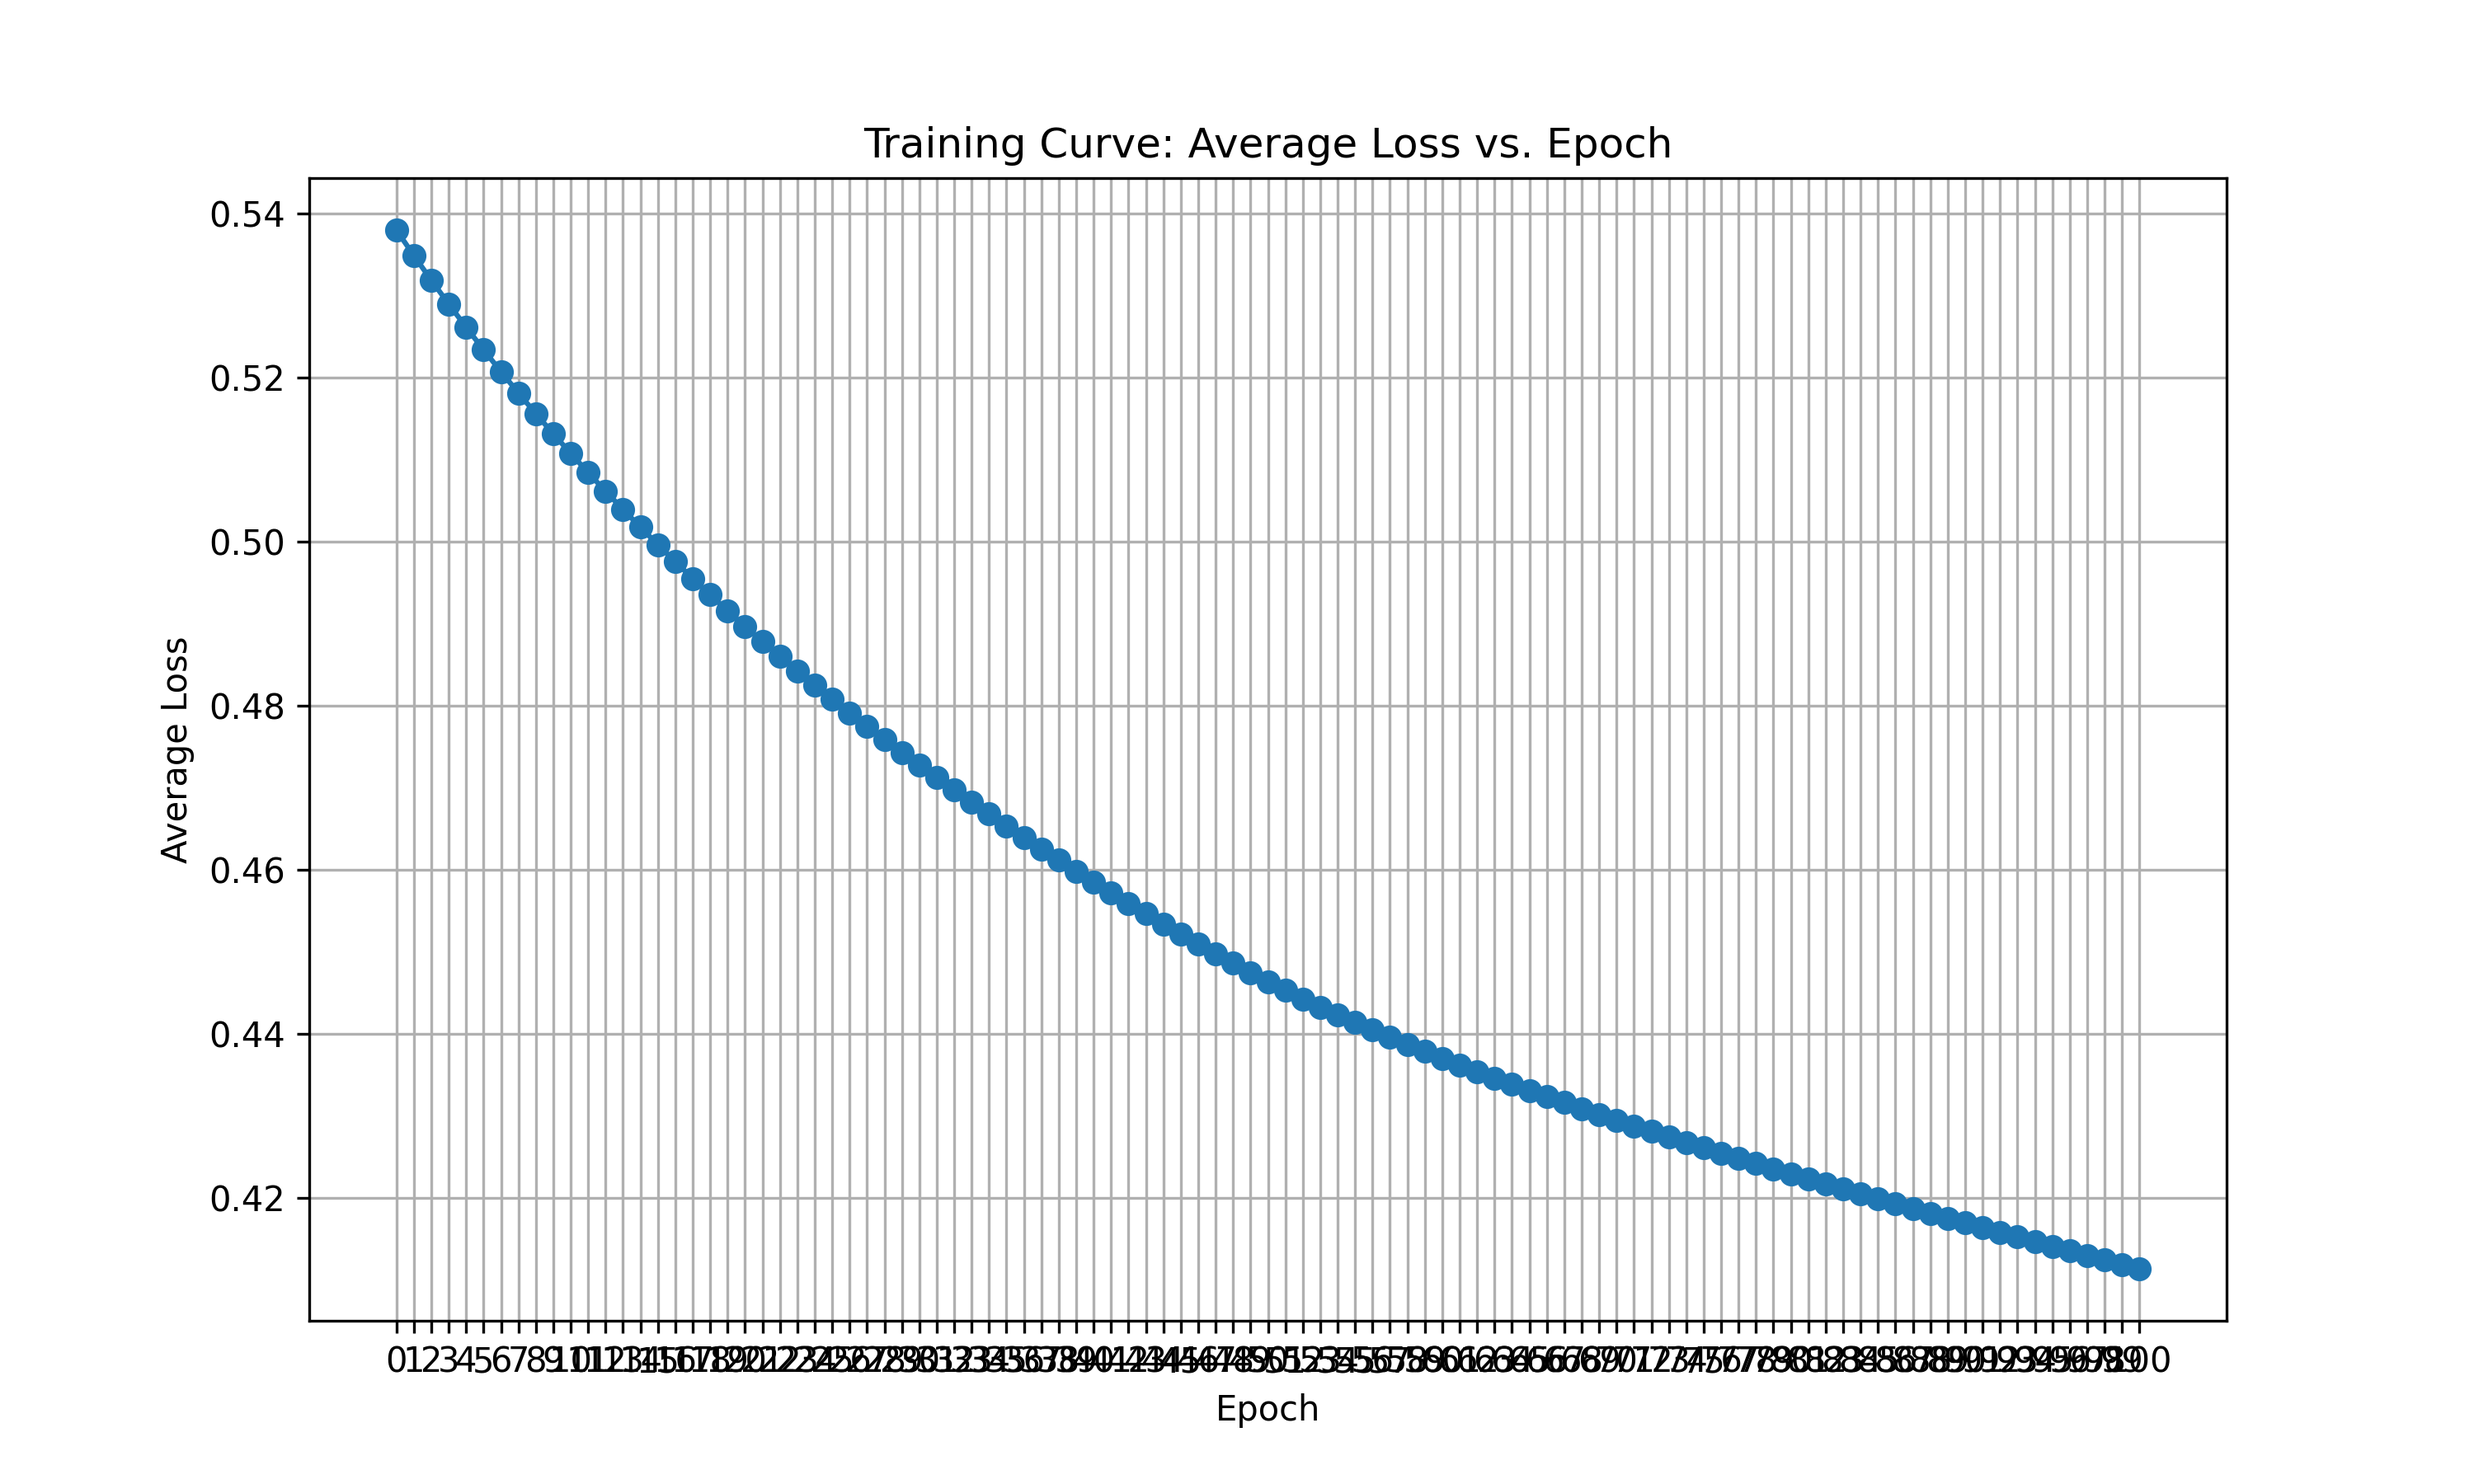
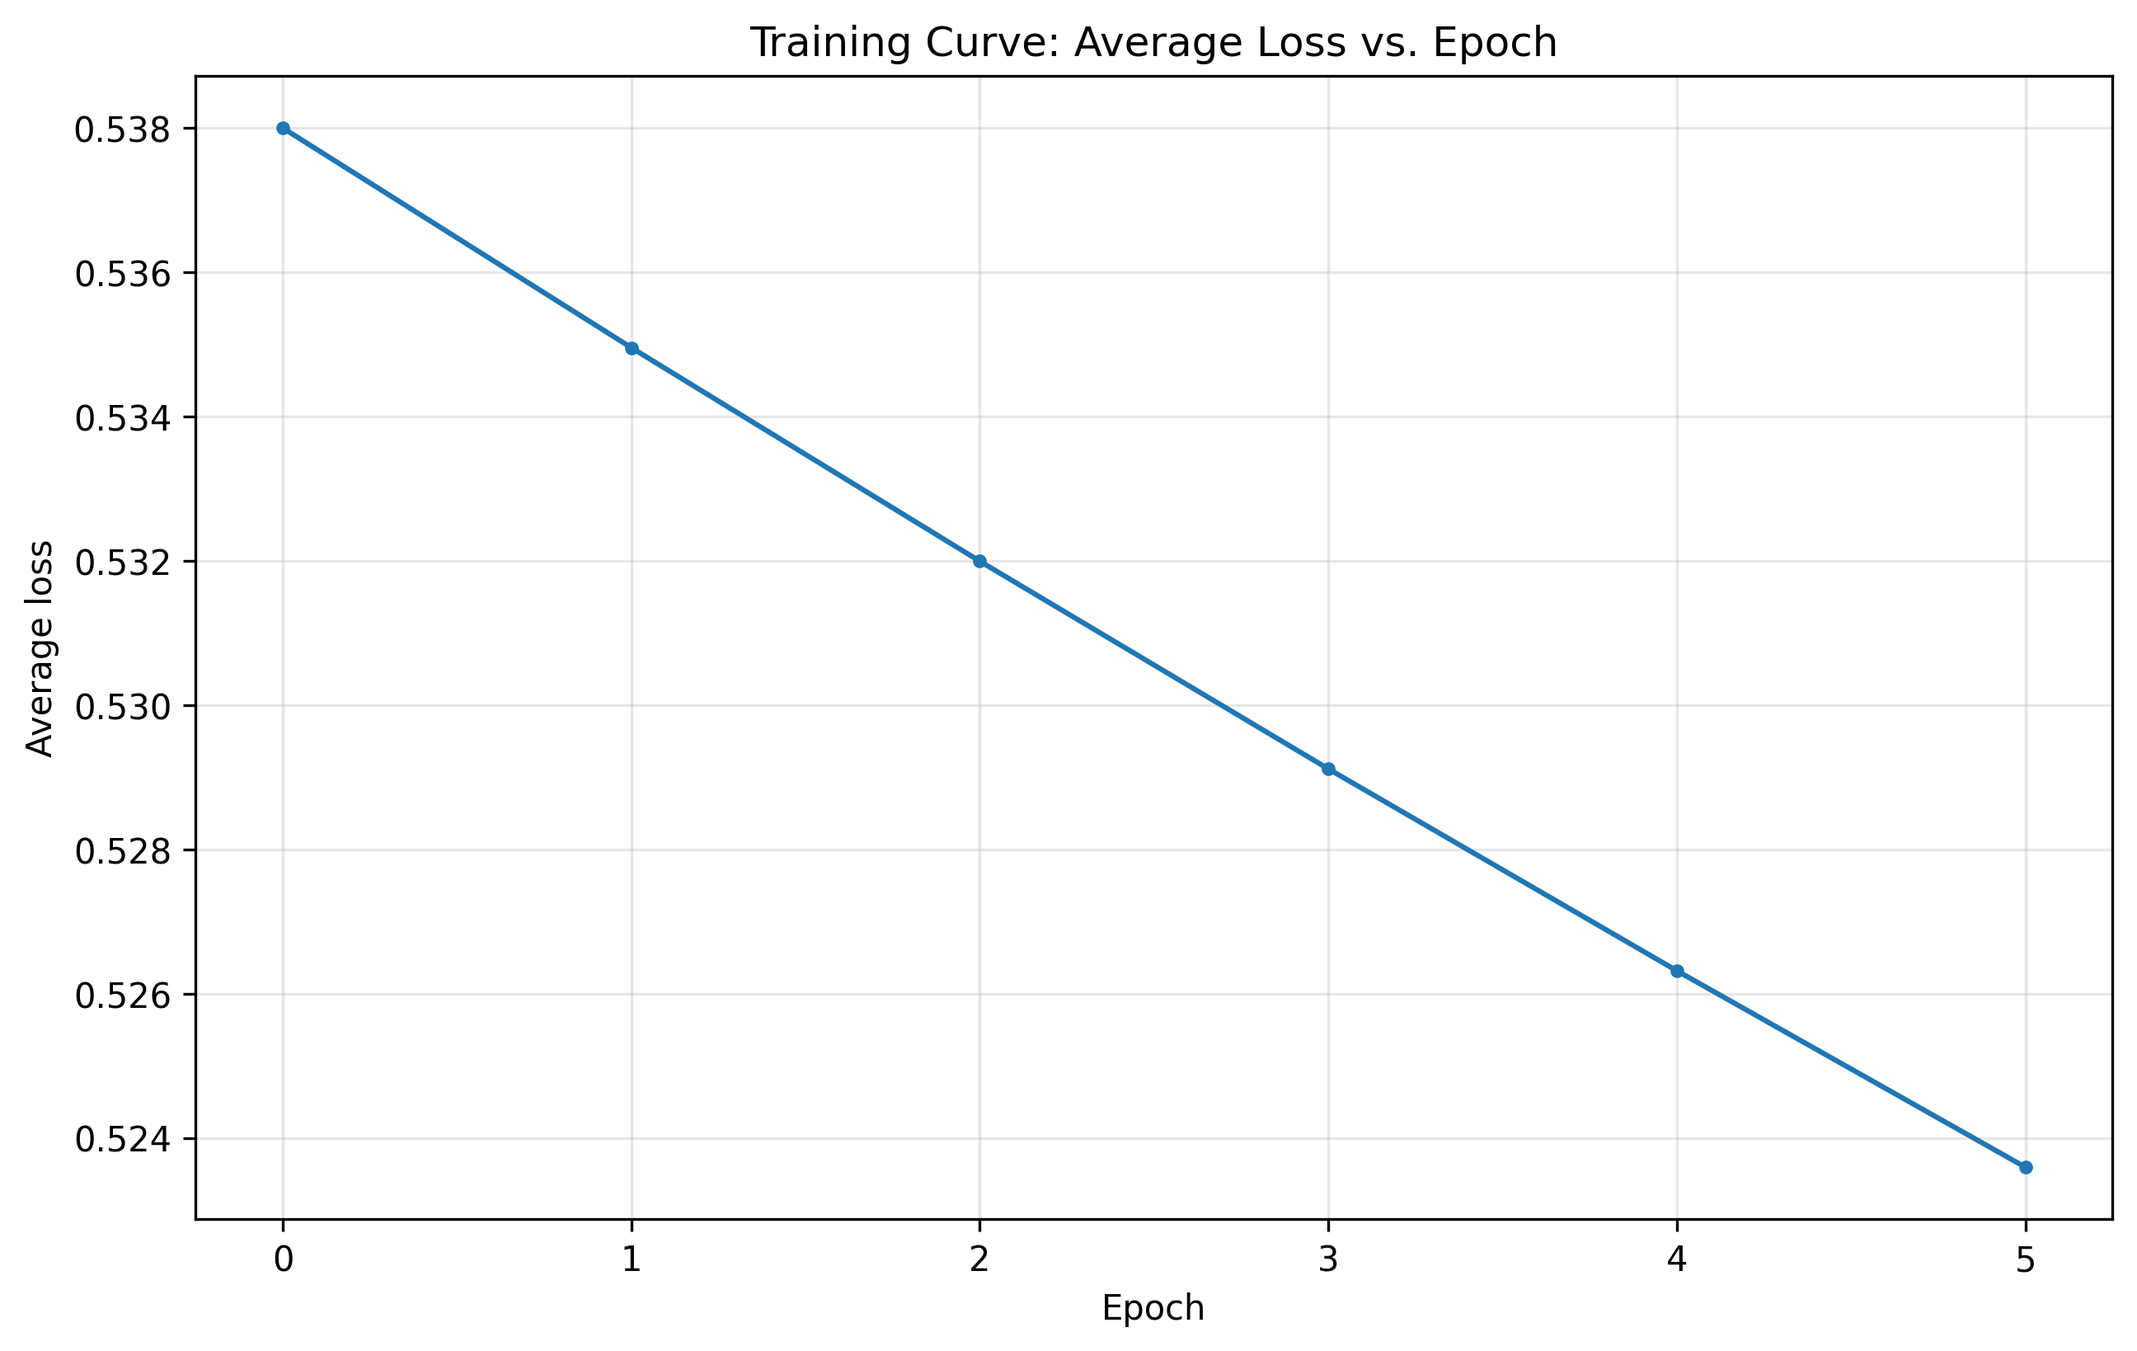
fix fim

diff --git a/scripts/assignment_1.py b/scripts/assignment_1.py
@@ -25,9 +25,9 @@ inputs = Tensor(data["inputs"])
 targets_data = np.array(data["targets"]).reshape(-1, 1)
 targets = Tensor(targets_data)
 
-print(f"loaded data with {inputs.data.shape[0]} samples")
-print(f"input shape: {inputs.data.shape}")
-print(f"target shape: {targets.data.shape}")
+print(f"Loaded data with {inputs.data.shape[0]} samples")
+print(f"Input shape: {inputs.data.shape}")
+print(f"Target shape: {targets.data.shape}")
 
 # build the neural network: 2 inputs -> 10 hidden -> 10 hidden -> 1 output
 # architecture: linear -> relu -> linear -> relu -> linear
@@ -42,21 +42,21 @@ model.layers[2].bias = b2
 model.layers[4].weight = w3  # third linear layer
 model.layers[4].bias = b3
 
-print("1. gradients of the first-layer weights and biases of the untrained network")
+print("1. Gradients of the first-layer weights and biases of the untrained network")
 
 # take just the first sample to compute gradients
 first_input = Tensor(inputs.data[0:1])
 first_target = Tensor(targets.data[0:1])
 
-print(f"using first sample: input = {first_input.data}, target = {first_target.data}")
+print(f"Using first sample: input = {first_input.data}, target = {first_target.data}")
 
 # forward pass: compute prediction
 y_hat = model(first_input)
-print(f"model prediction: {y_hat.data}")
+print(f"Model prediction: {y_hat.data}")
 
 # compute loss using mean squared error formula: 0.5 * (y_hat - y)^2
 loss = ((y_hat - first_target) ** 2) * 0.5
-print(f"loss value: {loss.data}")
+print(f"Loss value: {loss.data}")
 
 # reset gradients to zero before backward pass
 model.zero_grad()
@@ -64,11 +64,11 @@ model.zero_grad()
 loss.backward()
 
 print(
-    "Gradients of the first-layer weights:\n",
-    model.layers[0].weight.gradient,
+    "\nGradients of the first-layer weights:\n",
+    model.layers[0].weight.gradient.T,
 )
 print(
-    "\nGradients of the first-layer biases :\n",
+    "\nGradients of the first-layer biases:\n",
     model.layers[0].bias.gradient,
 )
 
@@ -76,15 +76,15 @@ print()
 print("---")
 print()
 
-print("2. train the network for five epochs with learning rate of 0.01")
+print("2. Train the network for five epochs with learning rate of 0.01")
 learning_rate = 0.01
 epochs = 5
 num_samples = inputs.data.shape[0]
 losses = []
 
-print(f"starting training with {num_samples} samples")
-print(f"learning rate: {learning_rate}")
-print(f"number of epochs: {epochs}")
+print(f"Starting training with {num_samples} samples")
+print(f"Learning rate: {learning_rate}")
+print(f"Number of epochs: {epochs}")
 
 # training loop - each epoch processes all samples
 for epoch in range(epochs + 1):
@@ -122,23 +122,23 @@ for epoch in range(epochs + 1):
 
 # create and save training loss plot
 EXPORT_GRAPH_PATH = "scripts/assignment_1.png"
-print("creating training curve plot...")
+print("Creating training curve plot...")
 
 plt.figure(figsize=(10, 6))
 plt.plot(range(epochs + 1), losses, marker="o", markersize=3)
-plt.title("training curve: average loss vs. epoch")
-plt.xlabel("epoch")
-plt.ylabel("average loss")
+plt.title("Training Curve: Average Loss vs. Epoch")
+plt.xlabel("Epoch")
+plt.ylabel("Average loss")
 plt.grid(True, alpha=0.3)
 
 # save the plot
 plt.savefig(EXPORT_GRAPH_PATH, dpi=300, bbox_inches="tight")
-print(f"plot saved as {EXPORT_GRAPH_PATH}")
+print(f"Plot saved as {EXPORT_GRAPH_PATH}")
 
 # show final training results
-print("\ntraining completed!")
-print(f"initial loss: {losses[0]:.6f}")
-print(f"final loss: {losses[-1]:.6f}")
-print(f"loss reduction: {((losses[0] - losses[-1]) / losses[0] * 100):.2f}%")
+print("\nTraining completed!")
+print(f"Initial loss: {losses[0]:.6f}")
+print(f"Final loss: {losses[-1]:.6f}")
+print(f"Loss reduction: {((losses[0] - losses[-1]) / losses[0] * 100):.2f}%")
 
 plt.show()

diff --git a/src/autodiff_numpy/tensor.py b/src/autodiff_numpy/tensor.py
@@ -35,12 +35,14 @@ class Tensor:
             b_grad = c.gradient
 
             if self.gradient.shape != a_grad.shape:
-                self.gradient += np.sum(a_grad)
+                keepdims = len(self.gradient.shape) == len(a_grad.shape)
+                self.gradient += np.sum(a_grad, axis=0, keepdims=keepdims)
             else:
                 self.gradient = self.gradient + a_grad
 
             if b.gradient.shape != b_grad.shape:
-                b.gradient = b.gradient + np.sum(b_grad)
+                keepdims = len(b.gradient.shape) == len(b_grad.shape)
+                b.gradient = b.gradient + np.sum(b_grad, axis=0, keepdims=keepdims)
             else:
                 b.gradient = b.gradient + b_grad
 
@@ -65,12 +67,14 @@ class Tensor:
             b_grad = self.data * c.gradient
 
             if self.gradient.shape != a_grad.shape:
-                self.gradient = self.gradient + np.sum(a_grad)
+                keepdims = len(self.gradient.shape) == len(a_grad.shape)
+                self.gradient = self.gradient + np.sum(a_grad, axis=0, keepdims=keepdims)
             else:
                 self.gradient += a_grad
 
             if b.gradient.shape != b_grad.shape:
-                b.gradient = b.gradient + np.sum(b_grad)
+                keepdims = len(b.gradient.shape) == len(b_grad.shape)
+                b.gradient = b.gradient + np.sum(b_grad, axis=0, keepdims=keepdims)
             else:
                 b.gradient = b.gradient + b_grad
 
